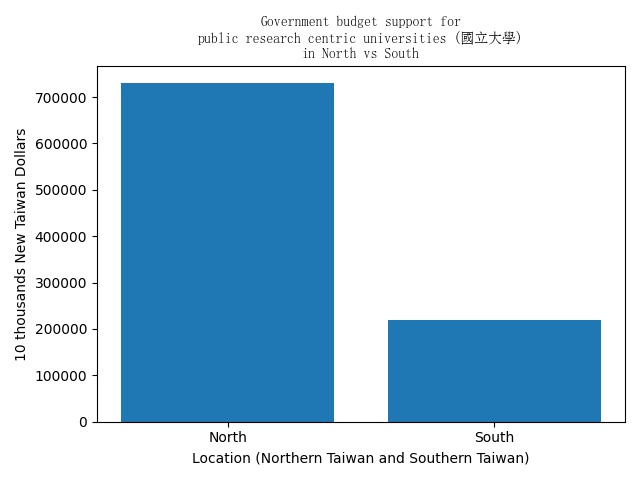
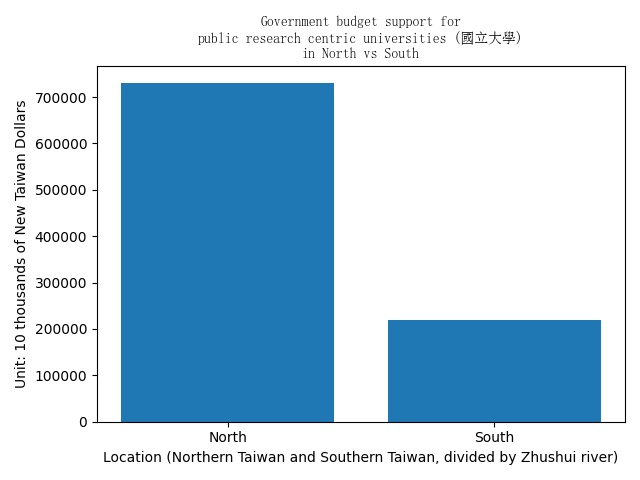
Committed 2021/07/07

Changed region(s): [[0.0, 0.2188, 0.0625, 0.8125], [0.1562, 0.9375, 0.9688, 0.9688]]

diff --git a/The attainments and realizations of my dreams/Higher_education_resource_distribution7.py b/The attainments and realizations of my dreams/Higher_education_resource_distribution7.py
@@ -200,8 +200,8 @@ print(total_south_public_research)
 # The histogram of the data
 plt.bar(['North', 'South'], [total_north_public_research, total_south_public_research])
 
-plt.xlabel('Location (Northern Taiwan and Southern Taiwan)')
-plt.ylabel('10 thousands New Taiwan Dollars')
+plt.xlabel('Location (Northern Taiwan and Southern Taiwan, divided by Zhushui river)')
+plt.ylabel('Unit: 10 thousands of New Taiwan Dollars')
 plt.title('Government budget support for\n'
           'public research centric universities (國立大學)\n'
           'in North vs South', fontproperties="SimSun") # [1]
